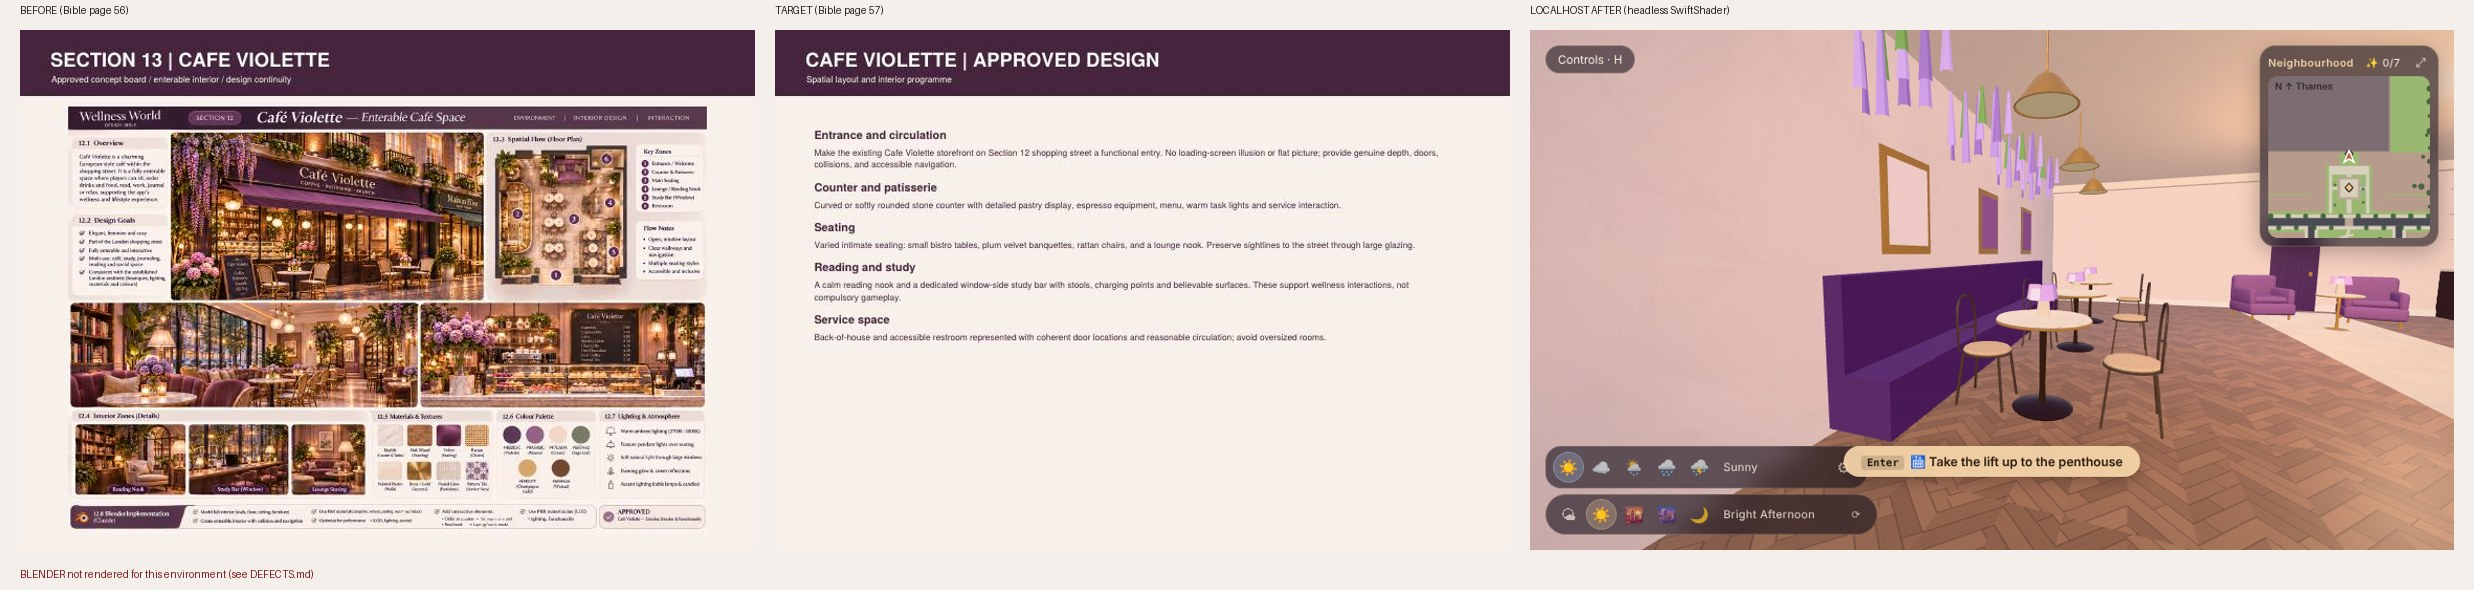
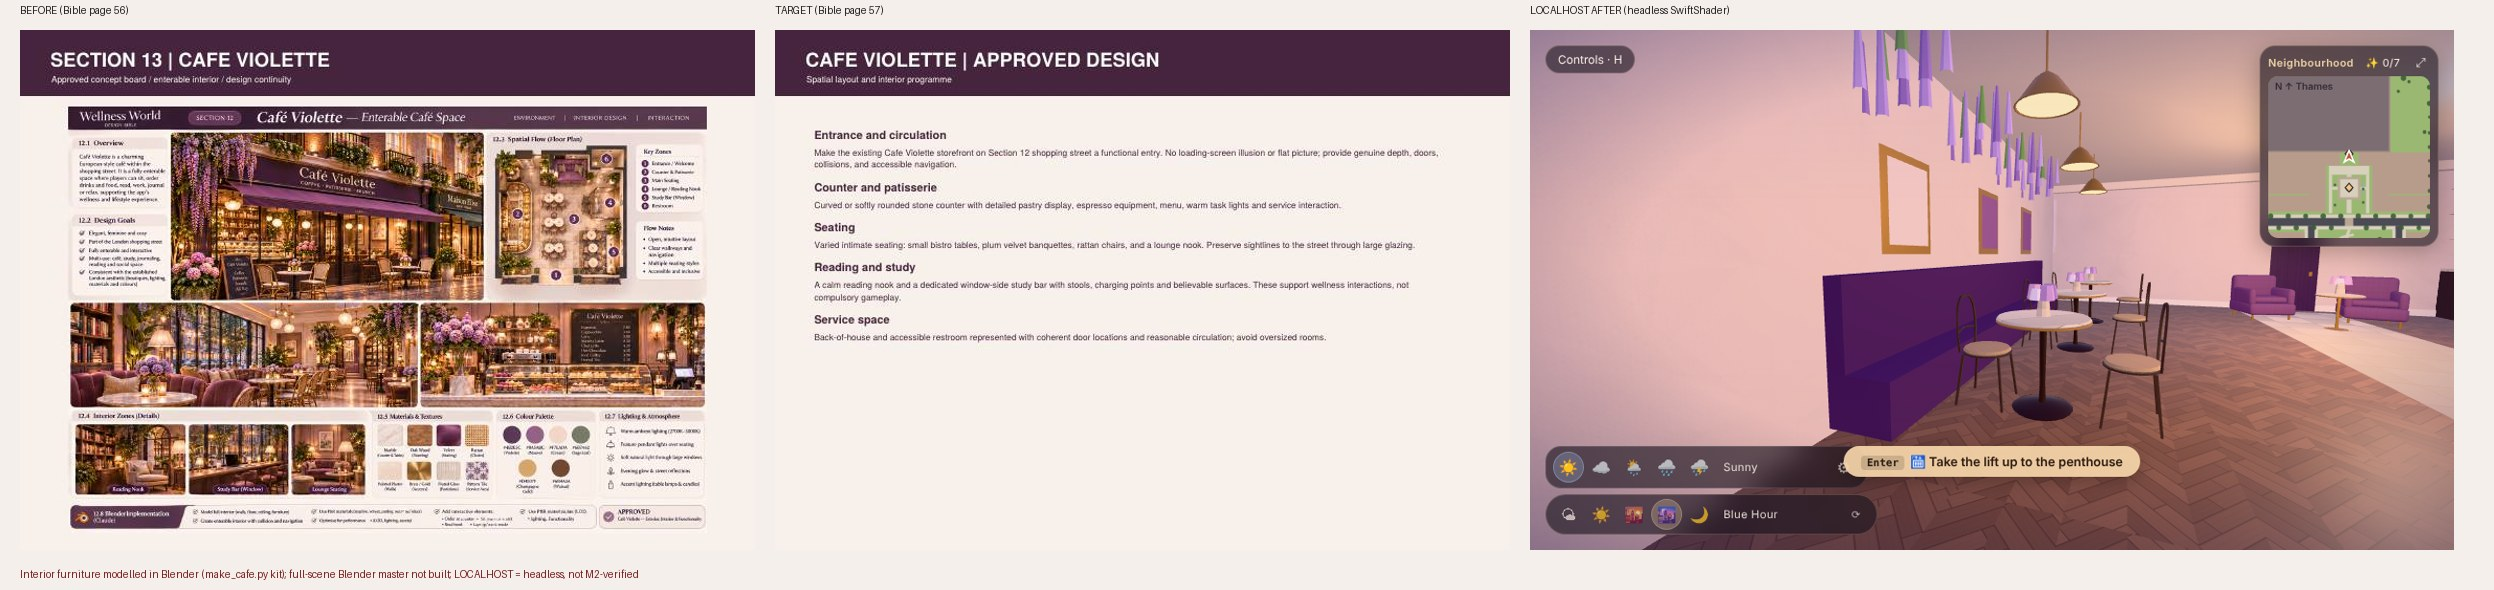
s13/s14: blue-hour interior sheets + status
Claude-Session: https://claude.ai/code/session_017ZtboRbFUCo4FCo9fUW3pH

diff --git a/docs/bible/S13_S14_STATUS.md b/docs/bible/S13_S14_STATUS.md
@@ -1,0 +1,10 @@
+# s13 Café Violette / s14 The Quiet Page (2026-11-12)
+Evidence: `evidence/s13_cafe_violette.jpg`, `evidence/s14_quiet_page.jpg` (blue hour, headless; not M2-verified; not claimed approved).
+## s13 present
+Plum banquette, bistro tables + bentwood chairs (Blender), hydrangea posies, wisteria strands, pendant lamps, herringbone floor, lounge armchairs, framed art.
+## s13 gaps vs p.56/57
+Curved stone pastry counter with display detail, window-side study bar with stools, back-lit shelving, richer warm glow, rattan chairs, restroom door/service space readability.
+## s14 present (NO FLOWERS respected)
+Walnut-toned walls, continuous bookshelf wall, central round display island, glass-tube chandelier (Blender), burgundy chairs, brass lamp, rug.
+## s14 gaps vs p.60/61
+Arched opening to a second reading room, rolling ladder, layered crown mouldings/coffered ceiling depth, display books/props on the island, left-glazing view of Café Violette, richer lamp pools.
